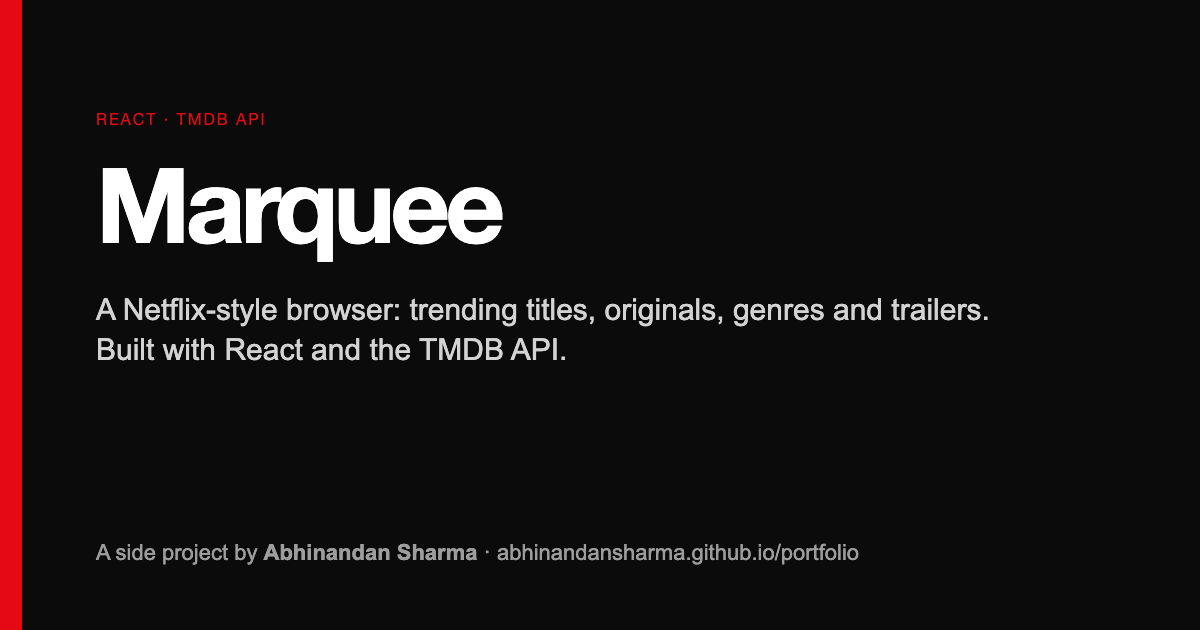
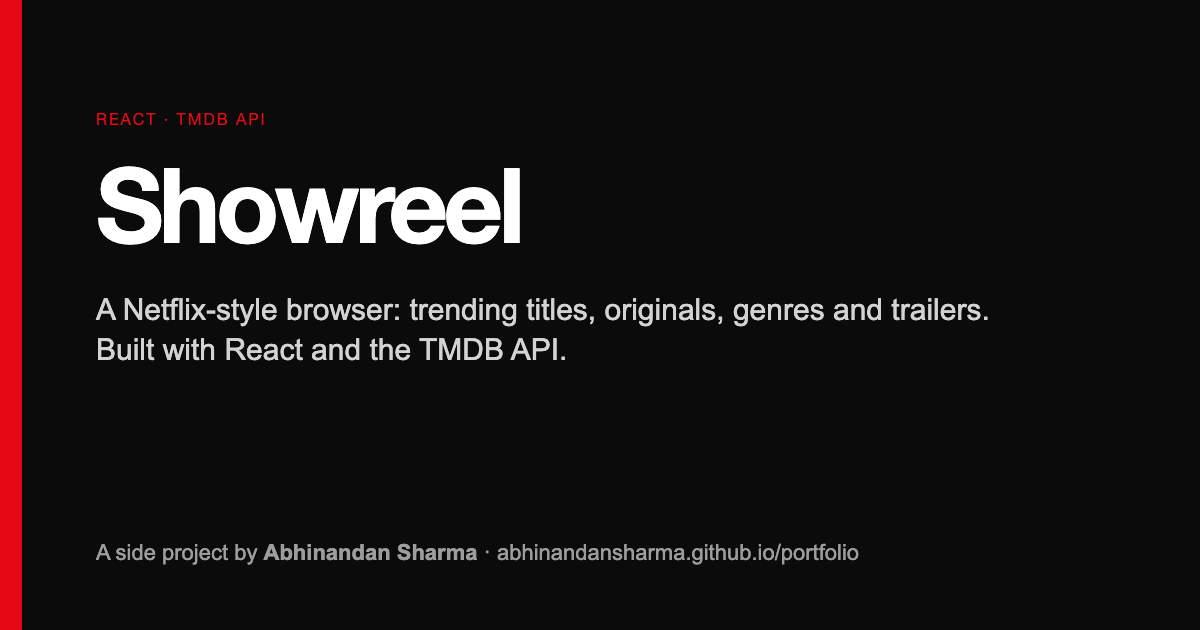
Rename to Showreel

Changed region(s): [[0.0617, 0.2413, 0.4317, 0.4222]]

diff --git a/public/index.html b/public/index.html
@@ -7,7 +7,7 @@
     <meta name="theme-color" content="#000000" />
     <meta
       name="description"
-      content="Marquee: a Netflix-style browser built with React and the TMDB API. Trending titles, originals, genres and trailers."
+      content="Showreel: a Netflix-style browser built with React and the TMDB API. Trending titles, originals, genres and trailers."
     />
     <link rel="apple-touch-icon" href="%PUBLIC_URL%/apple-touch-icon.png" />
     <!--
@@ -24,10 +24,10 @@
       work correctly both with client-side routing and a non-root public URL.
       Learn how to configure a non-root public URL by running `npm run build`.
     -->
-    <title>Marquee</title>
+    <title>Showreel</title>
     <meta property="og:type" content="website" />
     <meta property="og:url" content="https://abhinandansharma.github.io/netflix-clone/" />
-    <meta property="og:title" content="Marquee" />
+    <meta property="og:title" content="Showreel" />
     <meta property="og:description" content="A Netflix-style browser: trending titles, originals, genres and trailers. Built with React and the TMDB API." />
     <meta property="og:image" content="https://abhinandansharma.github.io/netflix-clone/og.png" />
     <meta property="og:image:width" content="1200" />

diff --git a/src/components/Nav.js b/src/components/Nav.js
@@ -44,7 +44,7 @@ const Nav = () => {
     return (
         <nav className={`nav ${show && "nav__black"}`}>
             <div className="nav-left">
-                <a className="nav__brand" href="#home" onClick={(e) => { e.preventDefault(); scrollToSection("home"); }}>Marquee</a>
+                <a className="nav__brand" href="#home" onClick={(e) => { e.preventDefault(); scrollToSection("home"); }}>Showreel</a>
             </div>
 
             <div className="nav-right">

diff --git a/README.md b/README.md
@@ -1,6 +1,6 @@
 **Live:** https://abhinandansharma.github.io/netflix-clone/
 
-# 🎬 Marquee (a Netflix-style browser in React)
+# 🎬 Showreel (a Netflix-style browser in React)
 
 A responsive, Netflix-inspired movie streaming UI built using ReactJS. This project replicates the core features of the Netflix front-end experience — complete with dynamic movie rows, banner, autoplay scrolling, hover previews, and modals with trailers.
 
